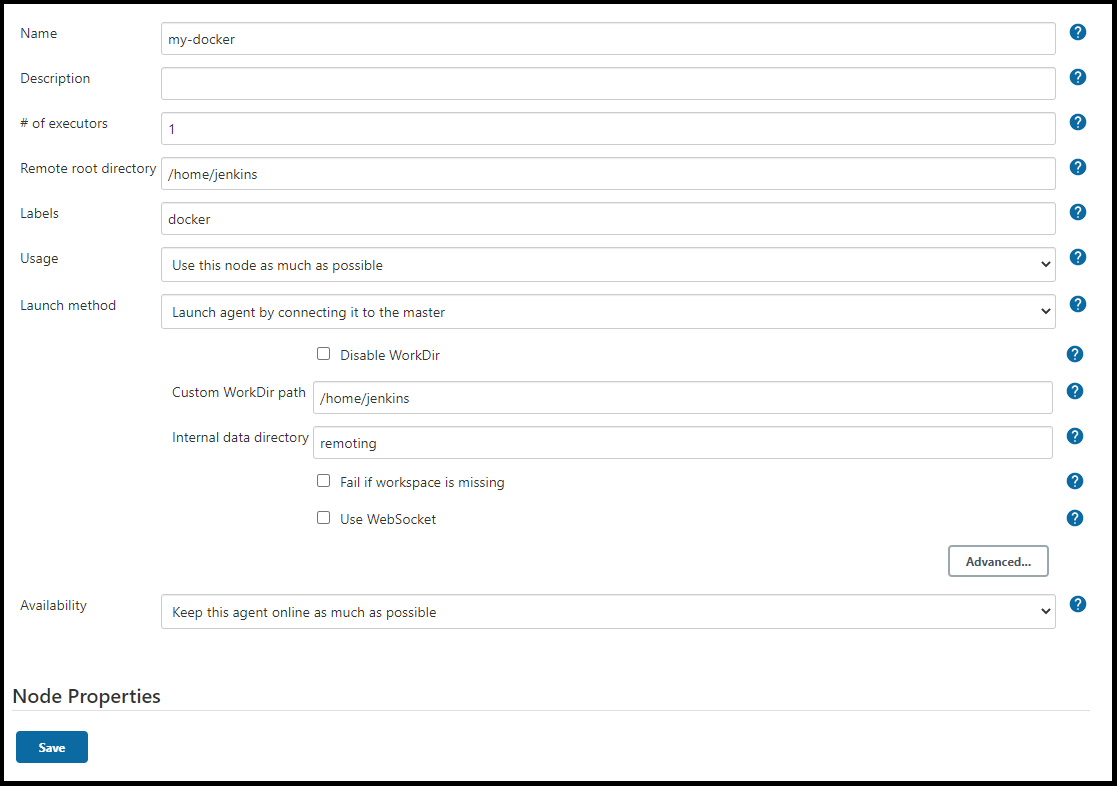
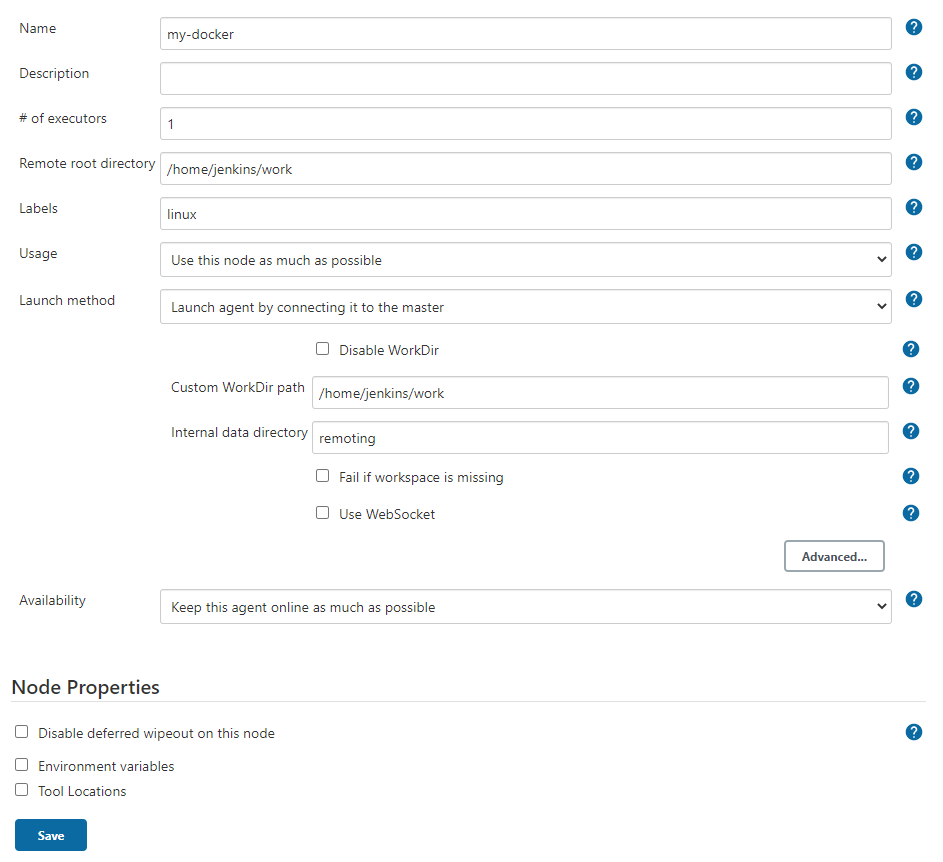
Resolved issue-51976 from azure-docs

Changed region(s): [[0.0, 0.0, 1.0, 1.0], [0.1538, 0.5496, 0.5228, 0.6718], [0.1845, 0.7023, 0.4613, 0.7328]]

diff --git a/articles/jenkins/azure-container-instances-as-jenkins-build-agent.md b/articles/jenkins/azure-container-instances-as-jenkins-build-agent.md
@@ -59,7 +59,7 @@ For more information on Azure Container Instances, see [About Azure Container In
 
 1. Enter a value for **Remote root directory**. For example, `/home/jenkins/work`
 
-1. Optionally, enter a label. Labels are used to group multiple agents into one logical group. An example of a label would be `linux` to group your Linux agents.
+1. Add a <abbr title="Labels are used to group multiple agents into one logical group. An example of a label would be `linux` to group your Linux agents.">**Label**</abbr> with the value of `linux`.
 
 1. Set **Launch method** to **Launch agent by connecting to the master**.
 
@@ -93,9 +93,14 @@ For more information on Azure Container Instances, see [About Azure Container In
       --command-line "jenkins-agent -url http://jenkinsserver:port <JENKINS_SECRET> <AGENT_NAME>"
     ```
 
-    After the container starts, it will connect to the Jenkins controller server automatically.
+    Replace `http://jenkinsserver:port`, `<JENKINS_SECRET>`, and `<AGENT_NAME>` with your Jenkins controller and agent information. After the container starts, it will connect to the Jenkins controller server automatically.
+
+1. Return to the Jenkins dashboard and check the agent status.
 
     ![Agent has started successfully](./media/azure-container-instances-as-jenkins-build-agent/agent-start.png)
+
+    > [!NOTE]
+    > Jenkins agents connect to the controller via port `5000`, ensure that port is allowed inbound to the Jenkins Controller.
 
 ## Create a build job
 
@@ -105,35 +110,31 @@ Now, a Jenkins build job is created to demonstrate Jenkins builds on an Azure co
 
    ![Box for the name of the build job, and list of project types](./media/azure-container-instances-as-jenkins-build-agent/jenkins-new-job.png)
 
-2. Under **General**, ensure that **Restrict where this project can be run** is selected. Enter **linux** for the label expression. This configuration ensures that this build job runs on the ACI cloud.
+1. Under **General**, ensure that **Restrict where this project can be run** is selected. Enter **linux** for the label expression. This configuration ensures that this build job runs on the ACI cloud.
 
    !["General" tab with configuration details](./media/azure-container-instances-as-jenkins-build-agent/jenkins-job-01.png)
 
-3. Under **Build**, select **Add build step** and select **Execute Shell**. Enter `echo "aci-demo"` as the command.
+1. Under **Build**, select **Add build step** and select **Execute Shell**. Enter `echo "aci-demo"` as the command.
 
    !["Build" tab with selections for the build step](./media/azure-container-instances-as-jenkins-build-agent/jenkins-job-02.png)
 
-5. Select **Save**.
+1. Select **Save**.
 
 ## Run the build job
 
-To test the build job and observe Azure Container Instances as the build platform, manually start a build.
+To test the build job and observe Azure Container Instances manually start a build.
 
-1. Select **Build Now** to start a build job. It takes a few minutes for the job to start. You should see a status that's similar to the following image:
+1. Select **Build Now** to start a build job. Once the job starts you'll see a status that's similar to the following image:
 
    !["Build History" information with job status](./media/azure-container-instances-as-jenkins-build-agent/jenkins-job-status.png)
 
-2. While the job is running, open the Azure portal and look at the Jenkins resource group. You should see that a container instance has been created. The Jenkins job is running inside this instance.
+1. Click build **#1** in the **Build History**.
 
-   ![Container instance in the resource group](./media/azure-container-instances-as-jenkins-build-agent/jenkins-aci.png)
+    !["Console Output" view the build output from the console](./media/azure-container-instances-as-jenkins-build-agent/build-history.png)
 
-3. As Jenkins runs more jobs than the configured number of Jenkins executors (default 2), multiple container instances are created.
+1. Select **Console Output** to view the builds output.
 
-   ![Newly created container instances](./media/azure-container-instances-as-jenkins-build-agent/jenkins-aci-multi.png)
-
-4. After all build jobs have finished, the container instances are removed.
-
-   ![Resource group with container instances removed](./media/azure-container-instances-as-jenkins-build-agent/jenkins-aci-none.png)
+    !["Console Output" view the build output from the console](./media/azure-container-instances-as-jenkins-build-agent/build-console-output.png)
 
 ## Next steps
 
